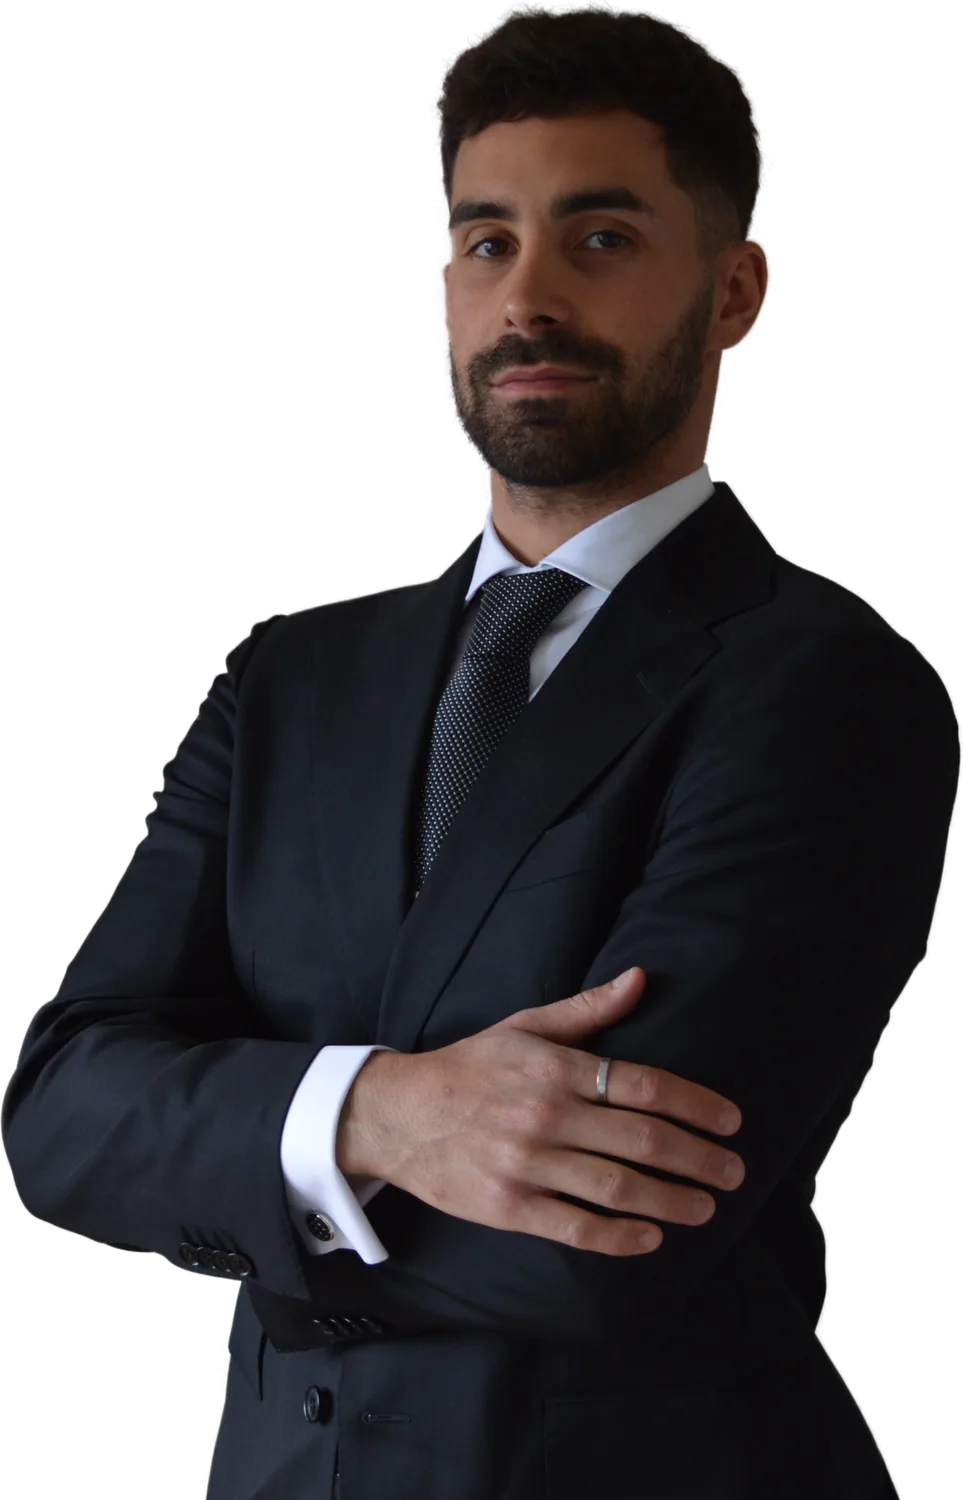
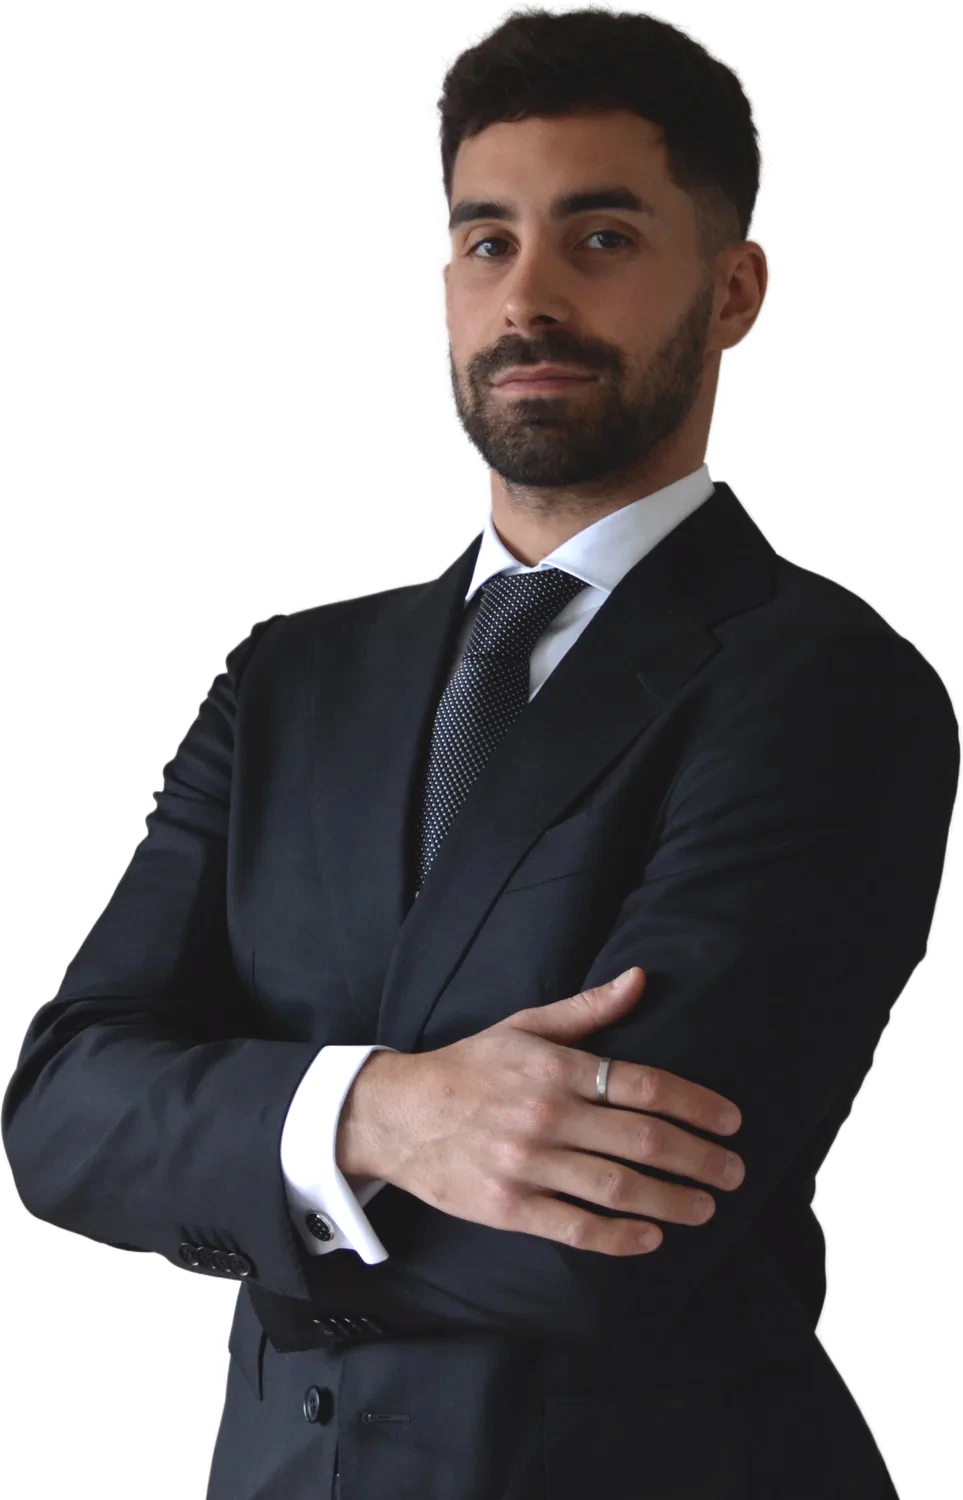
Founder photo: brighten the face + more headroom (scale 92%)
Lighten founder.webp (modulate brightness 1.13 + lightness 5) so the face reads
clearer/less dark, and bump the in-card scale from 0.88 to 0.92 for more headroom
without him feeling small. Alpha preserved. (Ring removal not done — needs a
content-aware editor; left as-is.)

diff --git a/components/home.tsx b/components/home.tsx
@@ -526,7 +526,7 @@ export default function Home({ lang }: { lang: Lang }) {
           <div className="grid lg:grid-cols-5 gap-10 lg:gap-16 items-center mb-24">
             <motion.div initial={reduce ? false : { opacity: 0, x: -30 }} whileInView={{ opacity: 1, x: 0 }} viewport={{ once: true }} transition={{ duration: 0.8 }} className="lg:col-span-2">
               <div className="relative aspect-[4/5] rounded-3xl overflow-hidden border border-[#1F1B16]/[0.08] bg-gradient-to-b from-[#EFE7D9] to-[#F7F3EC] shadow-[0_10px_50px_rgba(31,27,22,0.08)]">
-                <Image src="/founder.webp" alt="Francesco Modolo — Founder of Modolo Digital Studio" fill sizes="(max-width: 1024px) 100vw, 40vw" className="object-contain object-bottom scale-[0.88] origin-bottom" />
+                <Image src="/founder.webp" alt="Francesco Modolo — Founder of Modolo Digital Studio" fill sizes="(max-width: 1024px) 100vw, 40vw" className="object-contain object-bottom scale-[0.92] origin-bottom" />
               </div>
             </motion.div>
             <motion.div initial={reduce ? false : { opacity: 0, x: 30 }} whileInView={{ opacity: 1, x: 0 }} viewport={{ once: true }} transition={{ duration: 0.8 }} className="lg:col-span-3">
